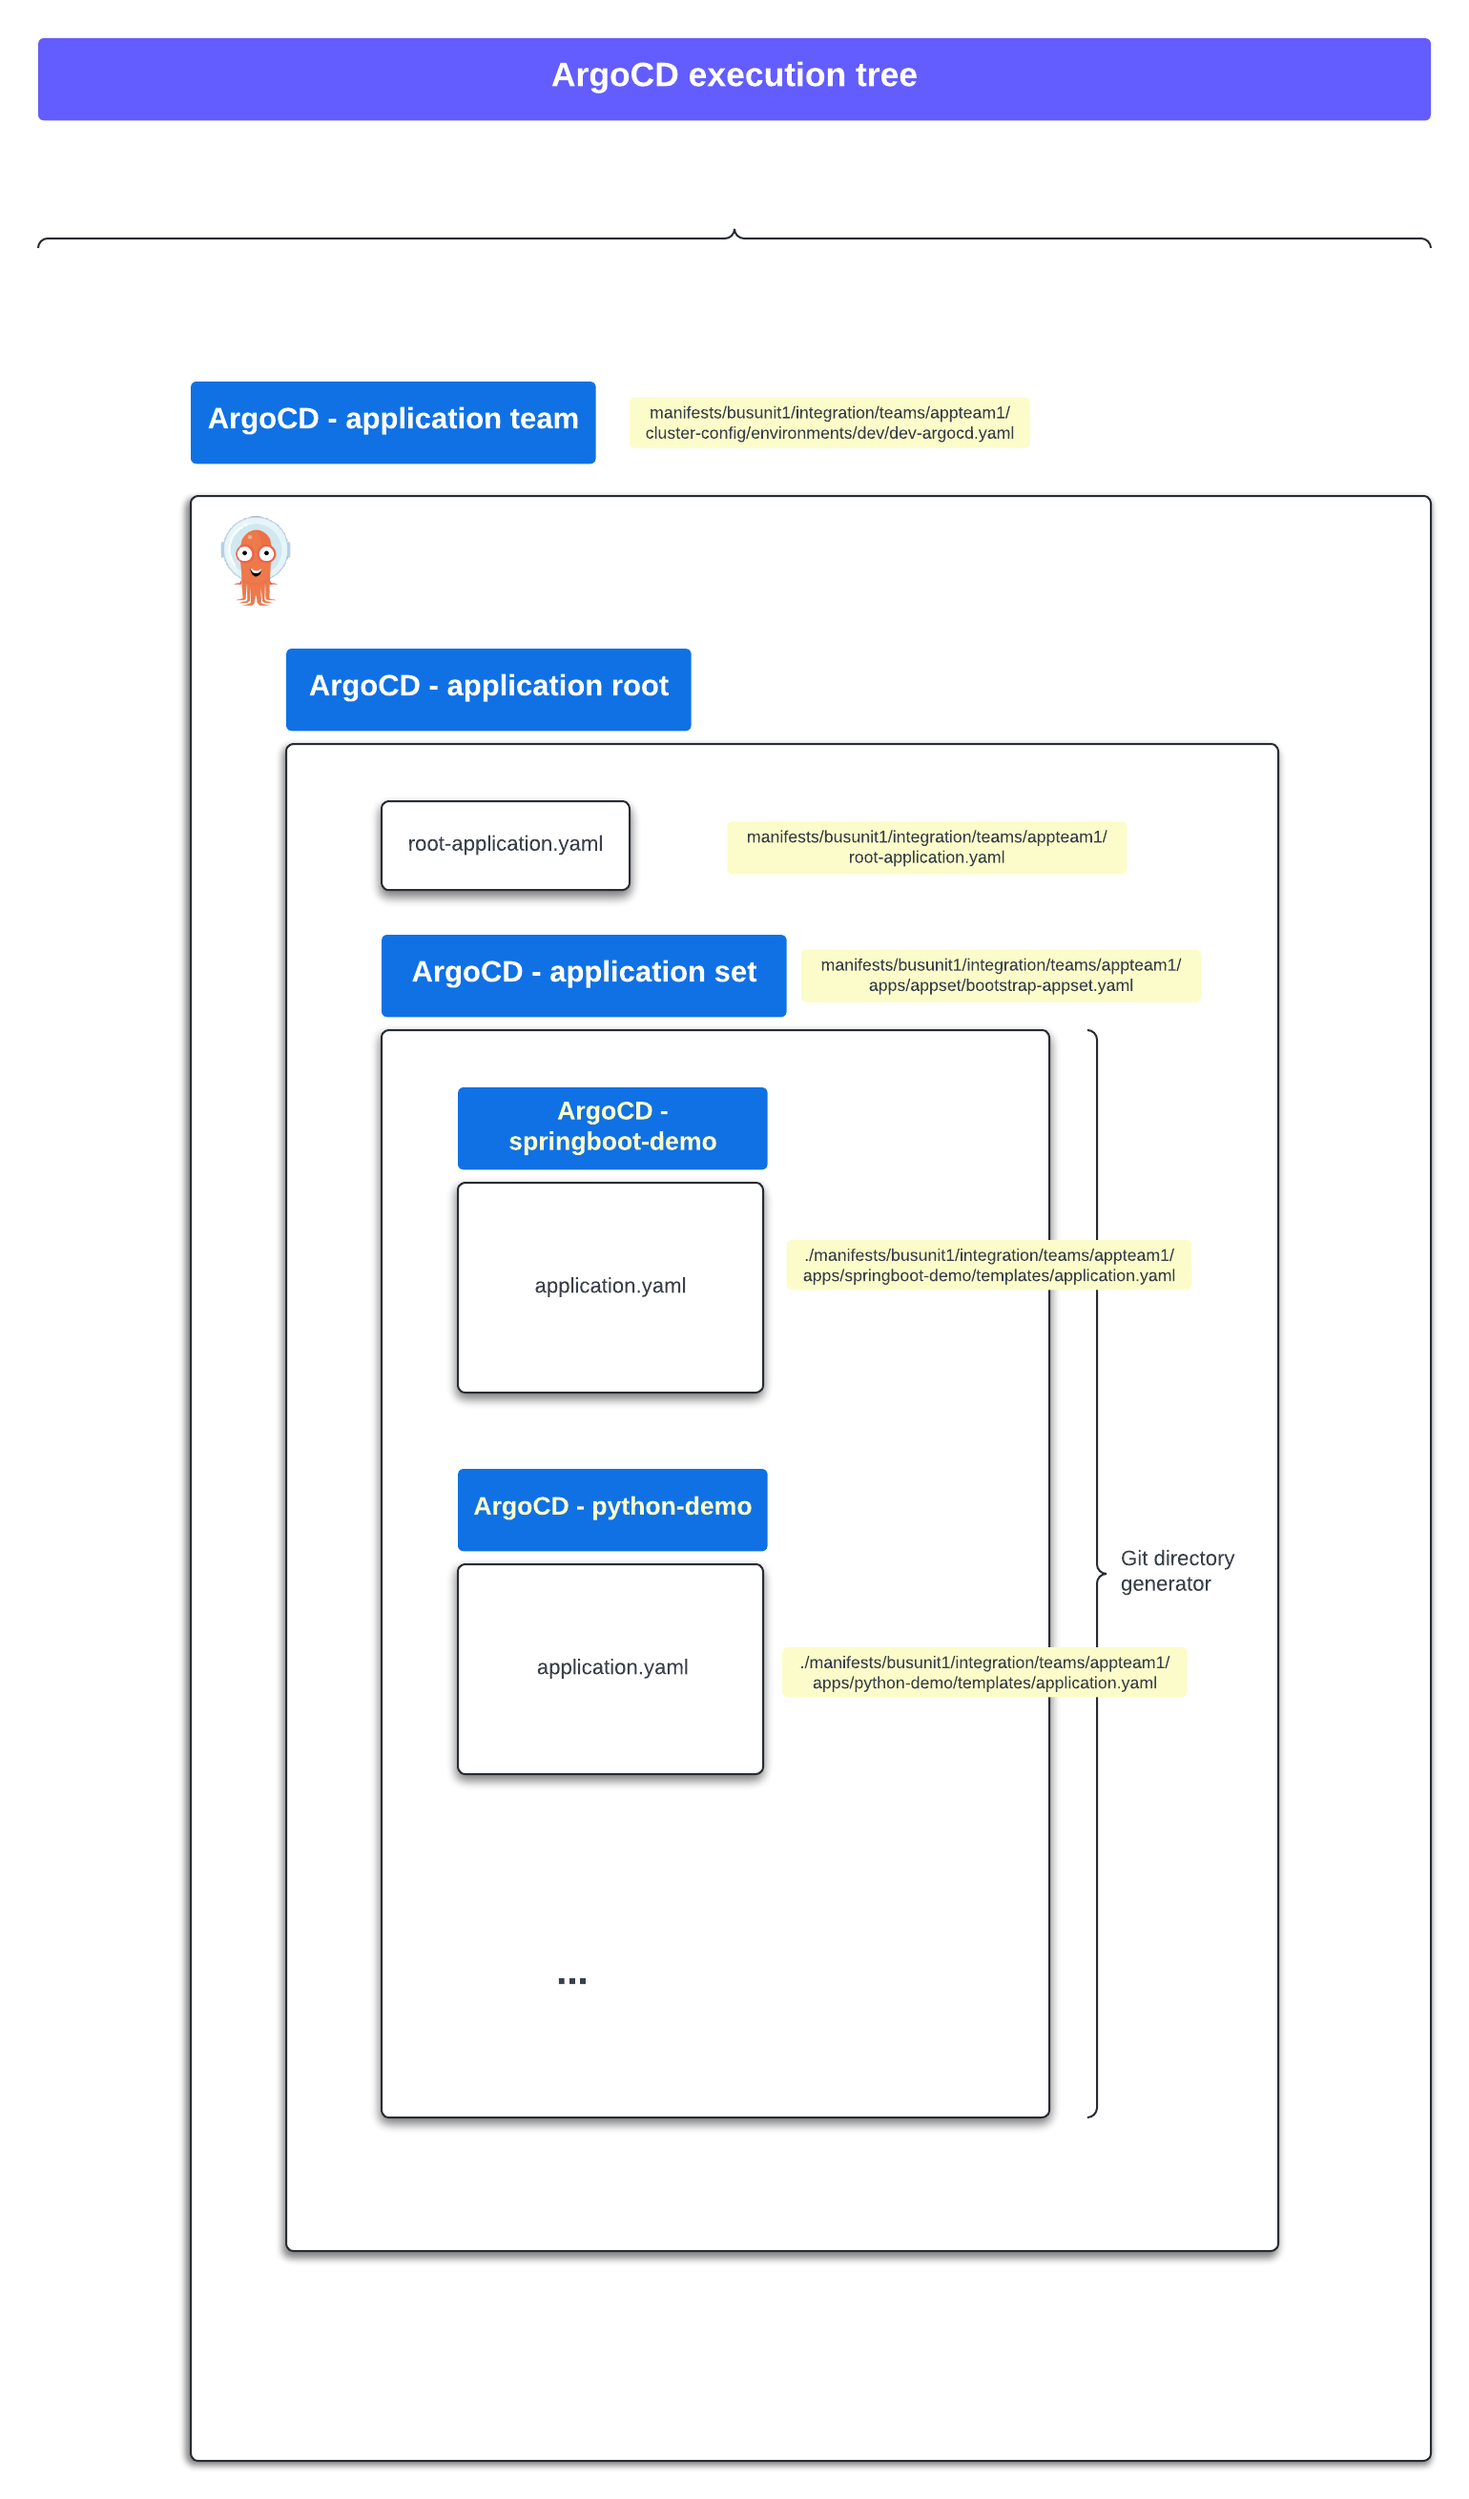
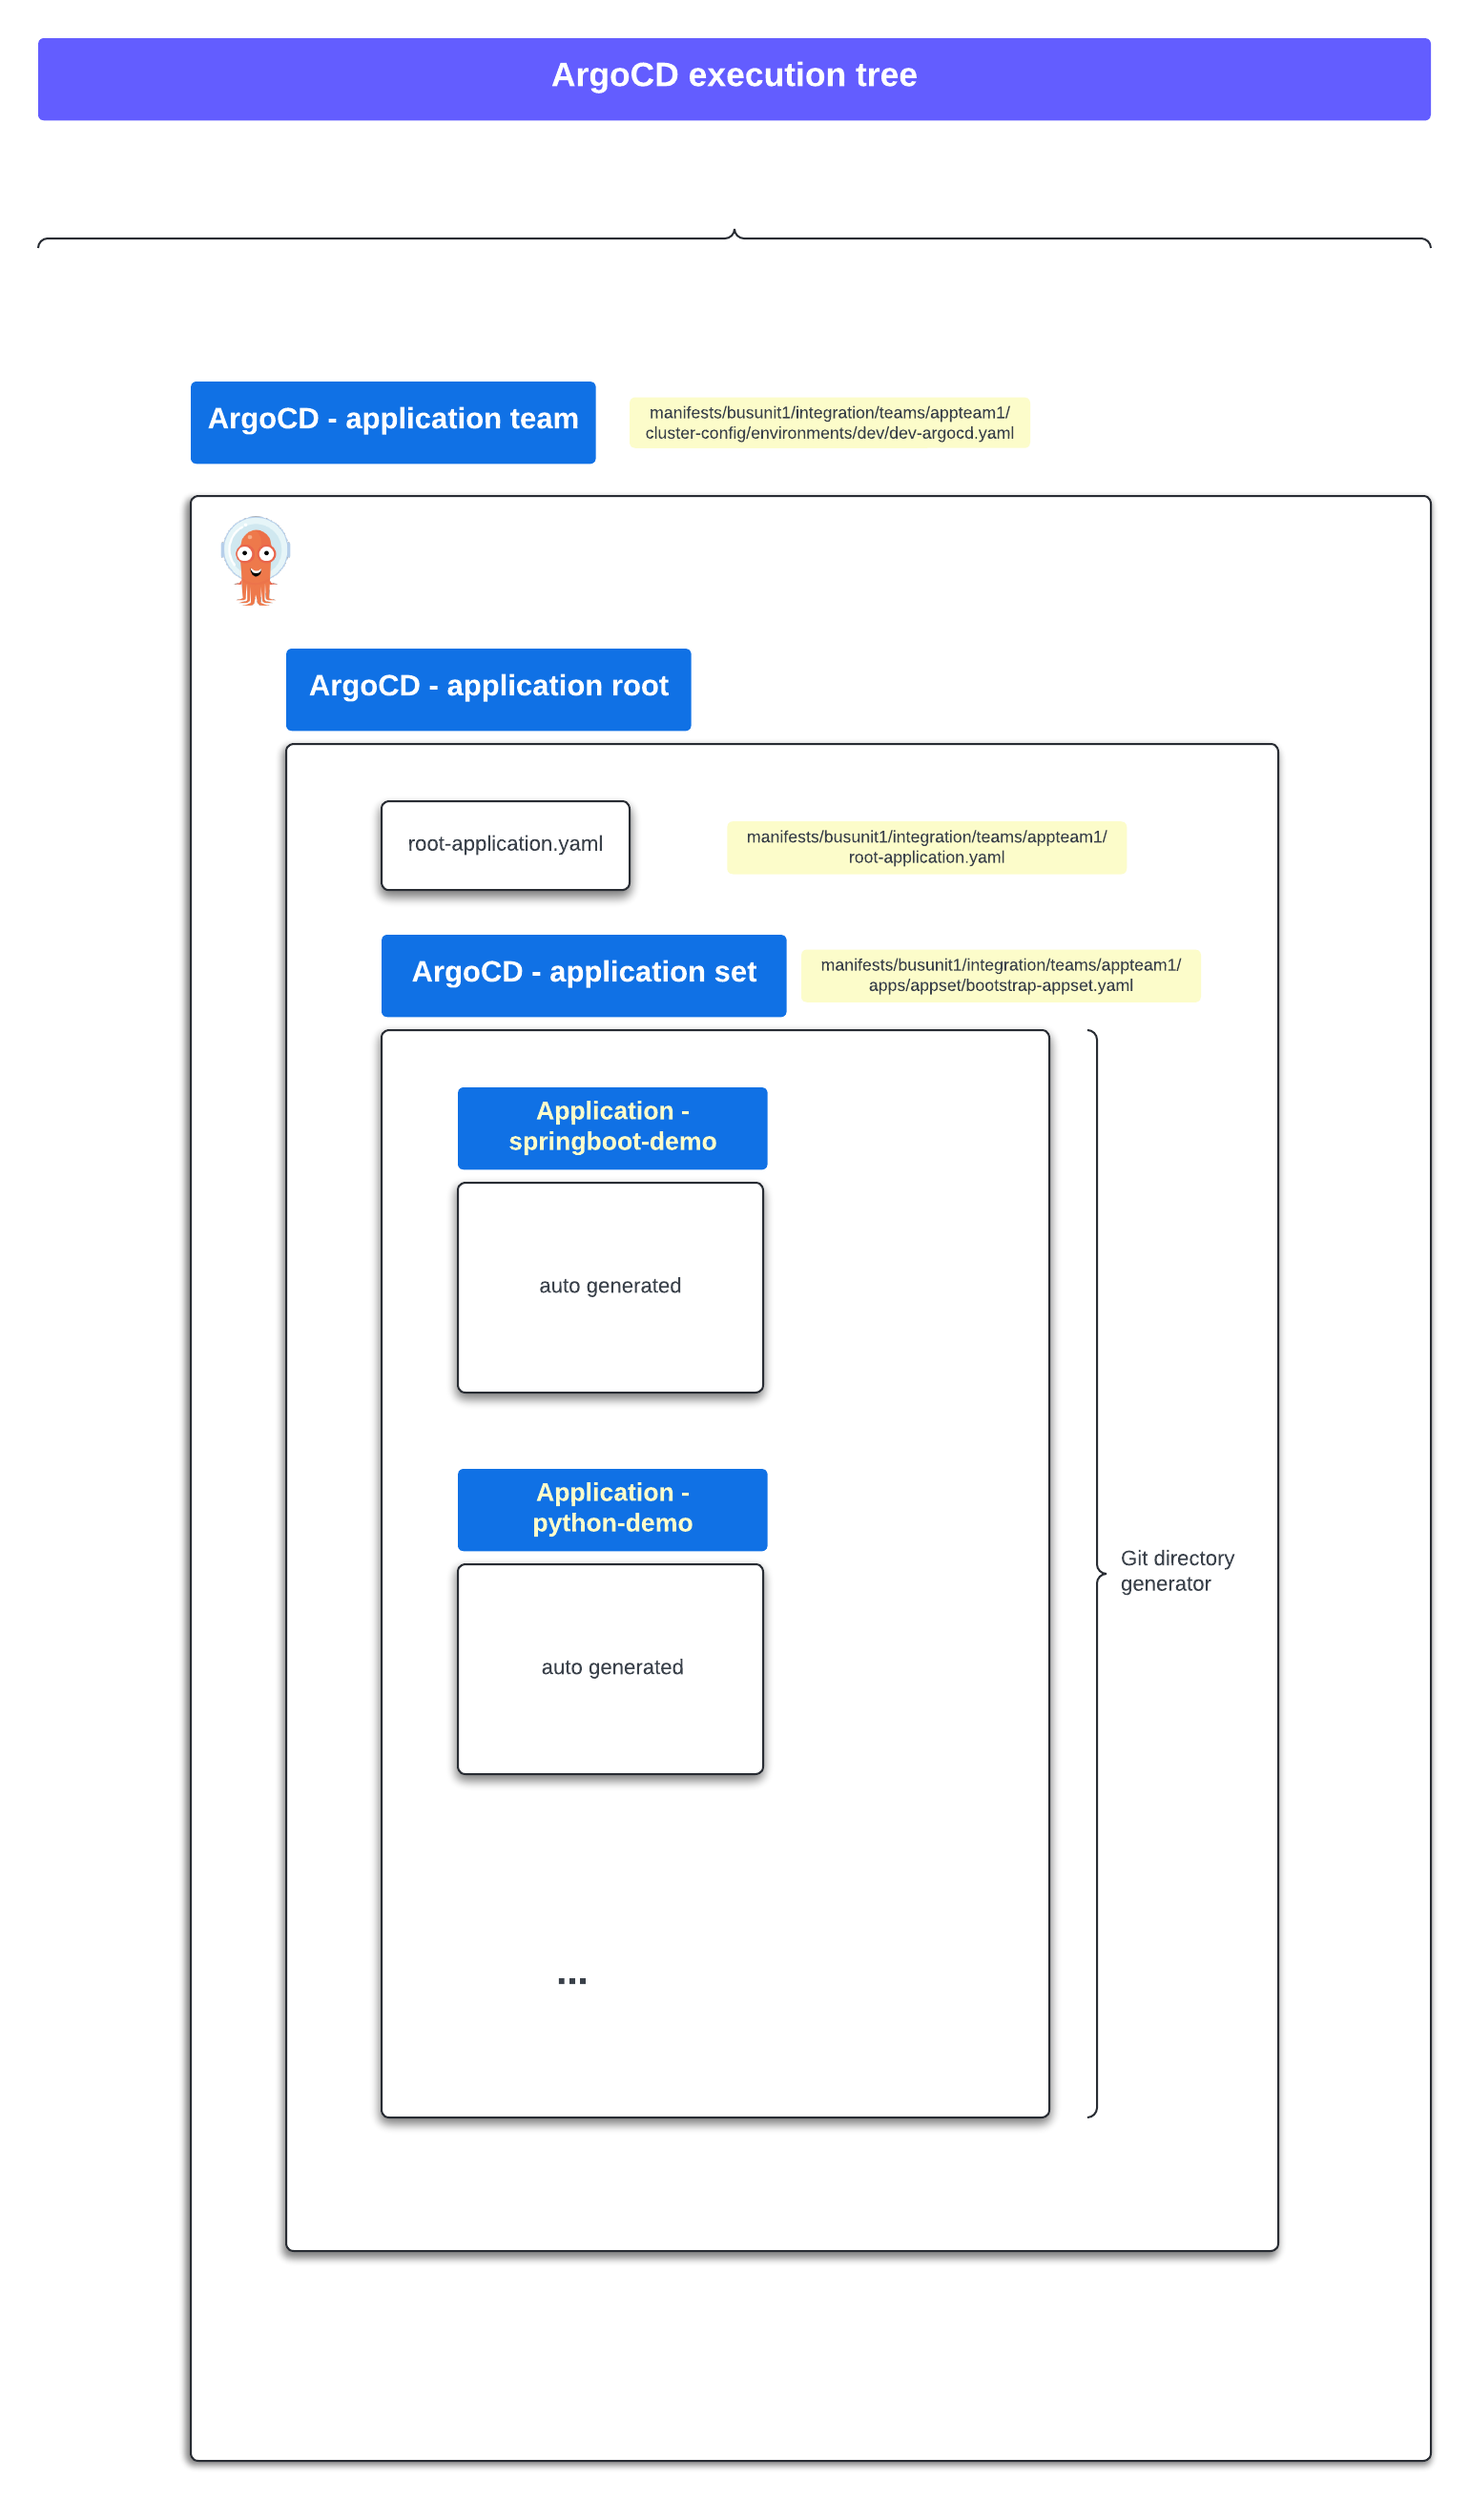
more readme changes, new images

diff --git a/README.md b/README.md
@@ -27,20 +27,36 @@ Within the namespace, we will have an *ArgoCD* custom resource instance.  The re
 <br/>
 
 
+### ArgoCD custom resources
+ArgoCD has 2 controllers for managing application deployment events.  The first is the **Application** controller.  It manages events triggered by Application resources.  
+
+The second is the **ApplicationSet** controller.  It manages events triggered by ApplicationSet resources. 
+
+An <span style="color:blue">ApplicationSet</span> is simply a set of applications.  It implements a number of [generators](https://argocd-applicationset.readthedocs.io/en/stable/Generators/).  We are primarily interested in the [Git Generator](https://argocd-applicationset.readthedocs.io/en/stable/Generators-Git/).  Specifically, the Git Directory generator.
+
 ![ArgoCD decision tree](https://github.com/abryson-redhat/argocd-demo/blob/helm/images/argocd_execution_tree.png)
 
 <br/>
 
 ### Deployments - Helm vs Kustomize
+
+#### Continuous Delivery Sequencing
+
+
+
+
 The <span style="color:blue">springboot-demo</span> application will use Helm for deployments.  Helm is a popular package management tool used by many Kubernetes shops.  
 
 The <span style="color:blue">springboot-postgres-demo</span> application will leverage Kustomize.  Kustomize is a popular configuration management tool that can also be used to manage deployments.
 
 The manifests for `helm` deployments will be kept in the *helm* branch of this **argocd-demo** project.  The manifests for `kustomize` will be kept in the *kustomize* branch.
 
-##### The manifests repository has the following structure:</large>
+<br/>
 
-###### Helm
+#### Helm based deployments
+The manifests repository has the following structure:
+
+
 ---
 
 
@@ -74,7 +90,10 @@ The manifests for `helm` deployments will be kept in the *helm* branch of this *
 
 <br/>
 
-###### Kustomize
+#### Kustomize based deployments
+
+The manifests repository has the following structure:
+
 ---
 
 ./gitops\
@@ -129,15 +148,12 @@ The manifests for `helm` deployments will be kept in the *helm* branch of this *
 &nbsp;&nbsp;&nbsp;&nbsp;&nbsp;&nbsp;&nbsp;&nbsp;&nbsp;&nbsp;&nbsp;&nbsp;&nbsp;&nbsp;&nbsp;&nbsp;&nbsp;&nbsp;qa-argocd.yaml
 
 
-###### Application Set details
-ArgoCD has 2 controllers for managing application deployment events.  The first is the **Application** controller.  It manages events triggered by Application resources.  The second is the **ApplicationSet** controller.  It manages events triggered by ApplicationSet resources. 
-
-An <span style="color:blue">ApplicationSet</span> is simply a set of applications.  It implements a number of [generators](https://argocd-applicationset.readthedocs.io/en/stable/Generators/).  We are primarily interested in the [Git Generator](https://argocd-applicationset.readthedocs.io/en/stable/Generators-Git/).  Specifically, the Git Directory generator.
 
 
 
 
-###### Helm based deployments
+
+###### Helm ArgoCD manifests
 At the top of the ArgoCD execution tree is a root application. It points to an ApplicationSet that generates Application instances.
 
 Each instance is created for a given folder listed in the parent path.  
@@ -206,14 +222,178 @@ spec:
         - CreateNamespace=false
 ```
 
-> Auto-generated application
+
+> Auto-generated application - **springboot-example**
 
 ```yaml
+apiVersion: argoproj.io/v1alpha1
+kind: Application
+metadata:
+  creationTimestamp: "2024-05-29T14:55:13Z"
+  finalizers:
+  - resources-finalizer.argocd.argoproj.io
+  generation: 333
+  name: springboot-demo
+  namespace: appteam1-demo-dev
+  ownerReferences:
+  - apiVersion: argoproj.io/v1alpha1
+    blockOwnerDeletion: true
+    controller: true
+    kind: ApplicationSet
+    name: appteam1-apps-helm-dev
+    uid: de7f96df-2d41-445f-a244-47919f2b9a81
+  resourceVersion: "600471"
+  uid: 1485dc1a-5f94-4608-83b7-6d2d927162a9
+spec:
+  destination:
+    namespace: appteam1-demo-dev
+    server: https://kubernetes.default.svc
+  project: default
+  source:
+    helm:
+      valueFiles:
+      - configs/dev/values.yaml
+    path: gitops/manifests/busunit1/integration/teams/appteam1/apps/springboot-demo
+    repoURL: https://github.com/abryson-redhat/argocd-demo.git
+    targetRevision: helm
+  syncPolicy:
+    syncOptions:
+    - CreateNamespace=false
+status:
+  controllerNamespace: appteam1-demo-dev
+  health:
+    status: Healthy
+  history:
+  - deployStartedAt: "2024-05-29T14:55:41Z"
+    deployedAt: "2024-05-29T14:55:41Z"
+    id: 0
+    revision: 4c59f8af1b70f5a02417b6c85209e28a6d792222
+    source:
+      helm:
+        valueFiles:
+        - configs/dev/values.yaml
+      path: gitops/manifests/busunit1/integration/teams/appteam1/apps/springboot-demo
+      repoURL: https://github.com/abryson-redhat/argocd-demo.git
+      targetRevision: helm
+  operationState:
+    finishedAt: "2024-05-29T14:55:41Z"
+    message: successfully synced (all tasks run)
+    operation:
+      initiatedBy:
+        username: admin
+      retry: {}
+      sync:
+        prune: true
+        revision: 4c59f8af1b70f5a02417b6c85209e28a6d792222
+        syncOptions:
+        - CreateNamespace=false
+        syncStrategy:
+          hook: {}
+    phase: Succeeded
+    startedAt: "2024-05-29T14:55:41Z"
+    syncResult:
+      resources:
+      - group: ""
+        hookPhase: Running
+        kind: ServiceAccount
+        message: serviceaccount/springboot-demo created
+        name: springboot-demo
+        namespace: appteam1-demo-dev
+        status: Synced
+        syncPhase: Sync
+        version: v1
+      - group: ""
+        hookPhase: Running
+        kind: Service
+        message: service/springboot-demo created
+        name: springboot-demo
+        namespace: appteam1-demo-dev
+        status: Synced
+        syncPhase: Sync
+        version: v1
+      - group: apps
+        hookPhase: Running
+        kind: Deployment
+        message: deployment.apps/springboot-demo created
+        name: springboot-demo
+        namespace: appteam1-demo-dev
+        status: Synced
+        syncPhase: Sync
+        version: v1
+      - group: route.openshift.io
+        hookPhase: Running
+        kind: Route
+        message: route.route.openshift.io/springboot-demo created
+        name: springboot-demo
+        namespace: appteam1-demo-dev
+        status: Synced
+        syncPhase: Sync
+        version: v1
+      revision: 4c59f8af1b70f5a02417b6c85209e28a6d792222
+      source:
+        helm:
+          valueFiles:
+          - configs/dev/values.yaml
+        path: gitops/manifests/busunit1/integration/teams/appteam1/apps/springboot-demo
+        repoURL: https://github.com/abryson-redhat/argocd-demo.git
+        targetRevision: helm
+  reconciledAt: "2024-05-30T16:55:15Z"
+  resources:
+  - health:
+      status: Healthy
+    kind: Service
+    name: springboot-demo
+    namespace: appteam1-demo-dev
+    status: Synced
+    version: v1
+  - kind: ServiceAccount
+    name: springboot-demo
+    namespace: appteam1-demo-dev
+    status: Synced
+    version: v1
+  - group: apps
+    health:
+      status: Healthy
+    kind: Deployment
+    name: springboot-demo
+    namespace: appteam1-demo-dev
+    status: Synced
+    version: v1
+  - group: route.openshift.io
+    health:
+      message: Route is healthy
+      status: Healthy
+    kind: Route
+    name: springboot-demo
+    namespace: appteam1-demo-dev
+    status: Synced
+    version: v1
+  sourceType: Helm
+  summary:
+    images:
+    - nexus-registry-nexus.apps.cluster-bcttf.dynamic.redhatworkshops.io/repository/smbc-demo/springboot-demo:latest
+  sync:
+    comparedTo:
+      destination:
+        namespace: appteam1-demo-dev
+        server: https://kubernetes.default.svc
+      source:
+        helm:
+          valueFiles:
+          - configs/dev/values.yaml
+        path: gitops/manifests/busunit1/integration/teams/appteam1/apps/springboot-demo
+        repoURL: https://github.com/abryson-redhat/argocd-demo.git
+        targetRevision: helm
+    revision: 72de7430c679cd7e781ccc2eeee029b90cb2eda6
+    status: Synced
 
 ```
 
 ## `springboot-demo` Project
 This is a simple springboot based Rest Controller helloworld application. It has a `Containerfile` for createing an OCI image.  The image will be built using the CI Github Actions portion of this demo.  Which will not be addressed in this document. 
+
+
+
 
 
 
